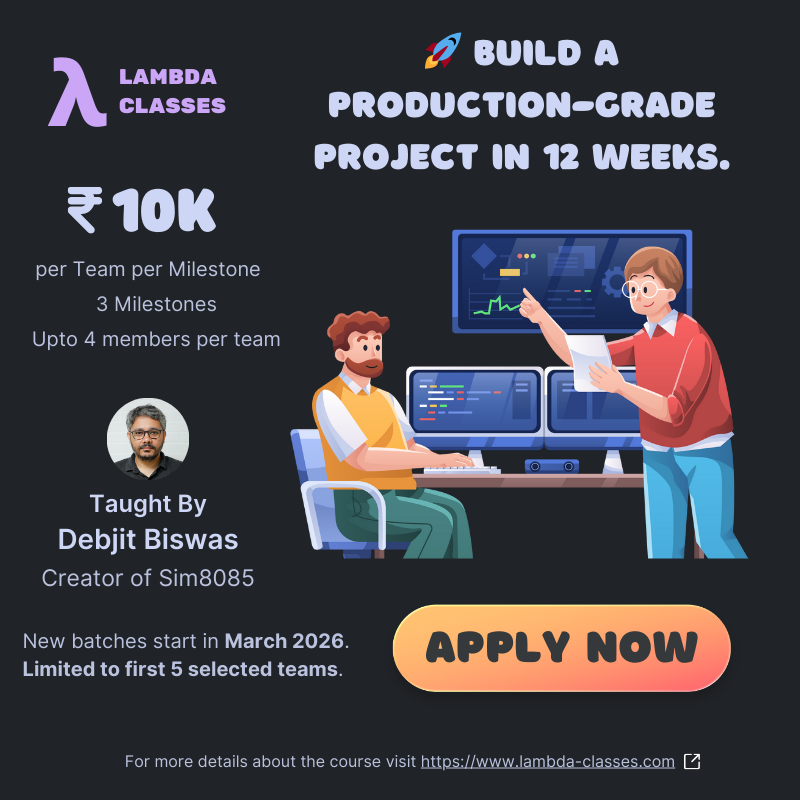
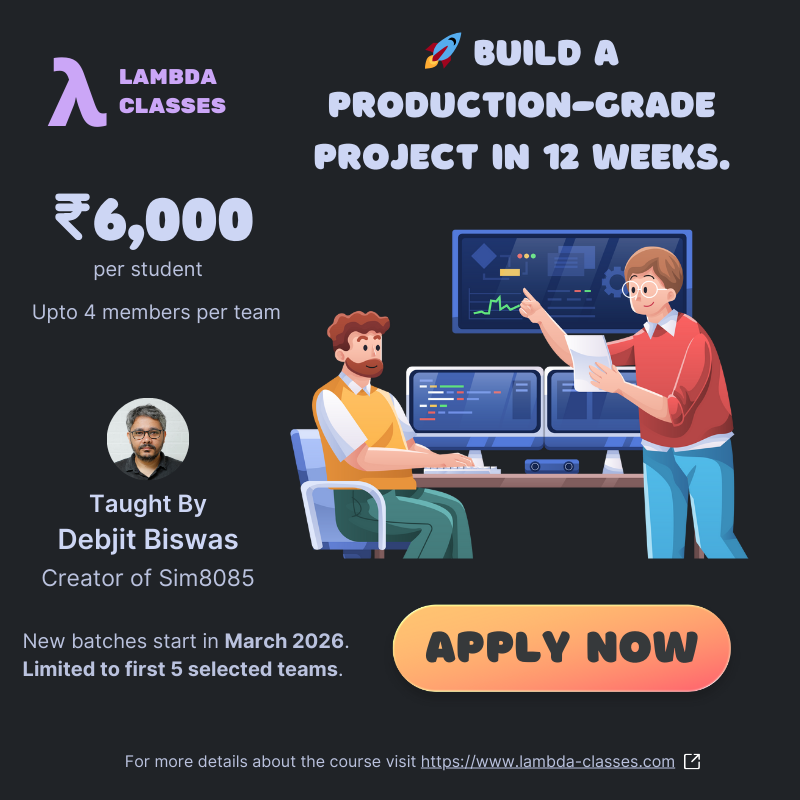
fix: Update ads to use generic component

Changed region(s): [[0.0312, 0.2188, 0.3125, 0.3438], [0.0312, 0.375, 0.3438, 0.4375]]

diff --git a/src/components/DirectAd.jsx b/src/components/DirectAd.jsx
@@ -1,0 +1,27 @@
+import AdContainer from "./AdContainer.jsx";
+
+export default function DirectAd(props) {
+    const ad = props.ad;
+
+    const onClickthrough = () => {
+        if (!ad) return;
+        if (typeof ad.onClick === "function") {
+            ad.onClick();
+        }
+        if (ad.trackingEvent && window.posthog) {
+            posthog.capture(ad.trackingEvent, ad.trackingProps || {});
+        }
+    };
+
+    if (!ad) return null;
+
+    const imageSrc = typeof ad.image === "string" ? ad.image : ad.image?.src;
+
+    return (
+        <AdContainer isHidden={props.isHidden}>
+            <a href={ad.href} target={ad.target || "_blank"} rel={ad.rel || "noreferrer"} onClick={onClickthrough}>
+                <img src={imageSrc} alt={ad.alt || ""} />
+            </a>
+        </AdContainer>
+    );
+}

diff --git a/src/components/AdSwitcher.jsx b/src/components/AdSwitcher.jsx
@@ -1,6 +1,7 @@
 import { createSignal, onCleanup, onMount } from "solid-js";
-import LambdaClassesPoster from "./LambdaClassesPoster.jsx";
+import DirectAd from "./DirectAd.jsx";
 import AdSenseAd from "./AdSenseAd.jsx";
+import { DIRECT_ADS } from "../config/directAds.js";
 
 export default function AdSwitcher(props) {
     const [showPoster, setShowPoster] = createSignal(isIndia(getCachedCountry()));
@@ -39,7 +40,7 @@ export default function AdSwitcher(props) {
     });
 
     return showPoster() ? (
-        <LambdaClassesPoster isHidden={props.isHidden} />
+        <DirectAd isHidden={props.isHidden} ad={DIRECT_ADS.lambdaClasses} />
     ) : (
         <AdSenseAd isHidden={props.isHidden} />
     );

diff --git a/src/config/directAds.js b/src/config/directAds.js
@@ -1,0 +1,14 @@
+import LambdaClassesPoster from "../images/lambda-classes-projects-poster.png";
+
+export const DIRECT_ADS = {
+    lambdaClasses: {
+        id: "lambda-classes",
+        href: "https://www.lambda-classes.com/#apply",
+        image: LambdaClassesPoster,
+        alt: "Lambda Classes",
+        trackingEvent: "lc clickthrough",
+        trackingProps: { ad: "lambda-classes" },
+        target: "_blank",
+        rel: "noreferrer",
+    },
+};
